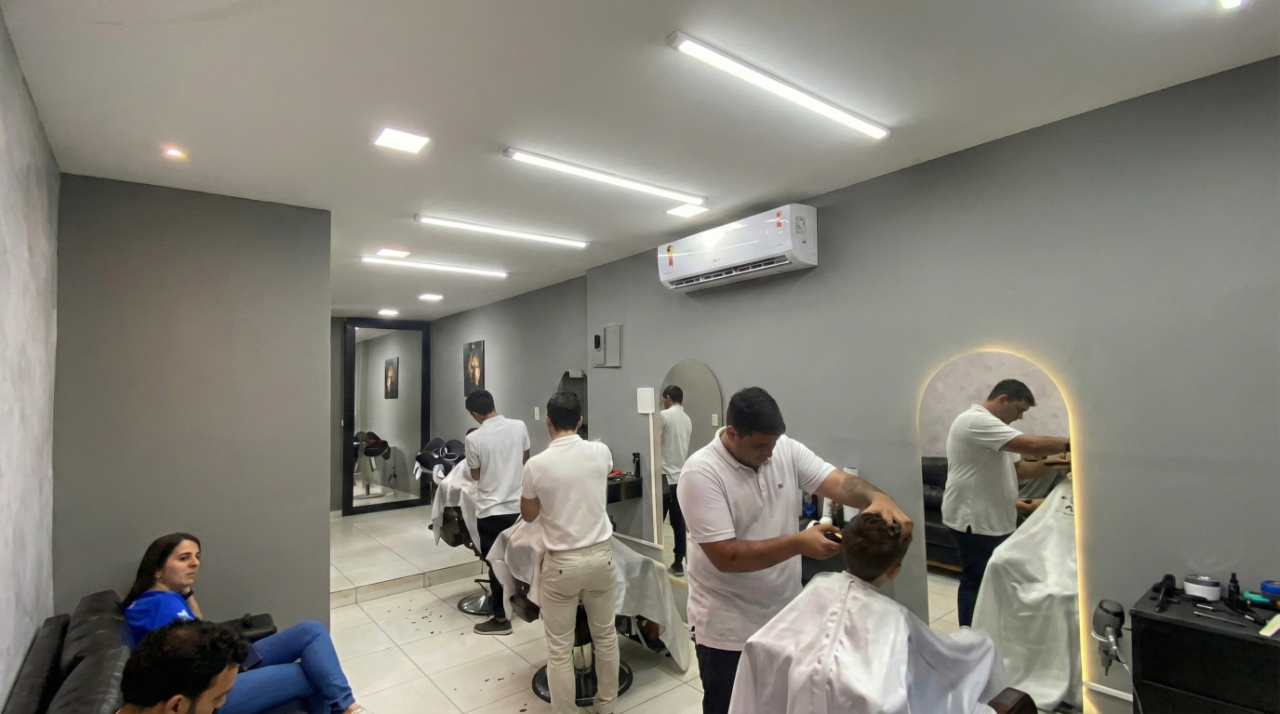
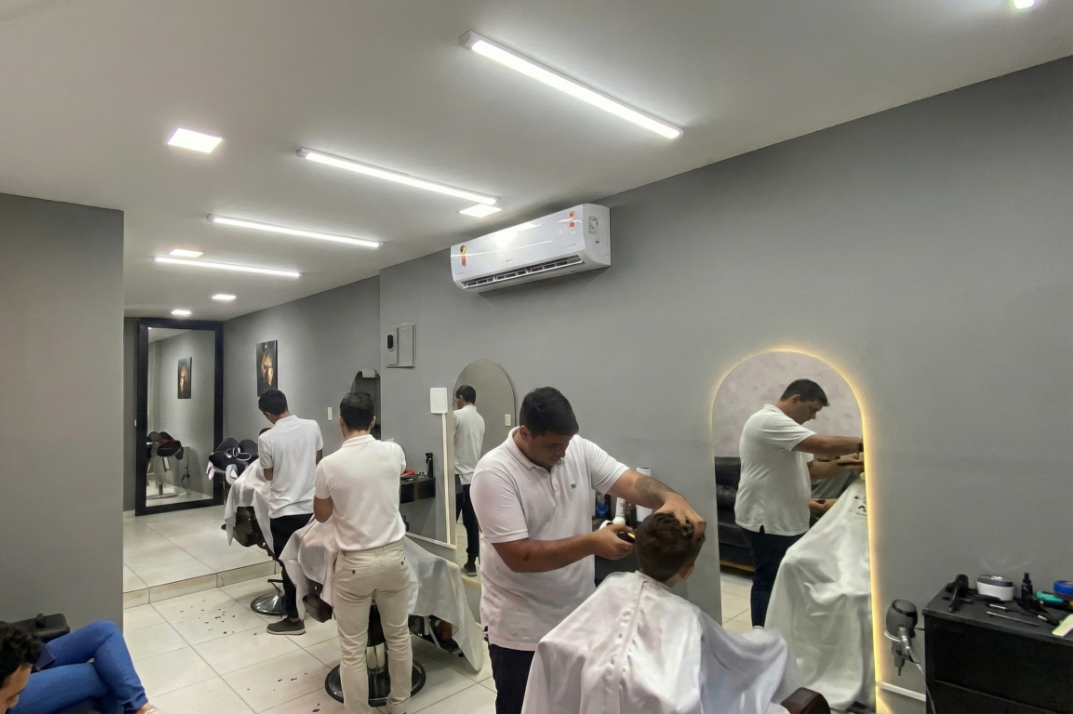
mod

diff --git a/src/components/HeroSection.tsx b/src/components/HeroSection.tsx
@@ -3,7 +3,7 @@ import { Button } from "@/components/ui/button";
 import { AuthModal } from "@/components/AuthModal";
 import { useAuth } from "@/hooks/useAuth";
 import { Scissors, ChevronDown } from "lucide-react";
-import heroImg from "@/assets/barbershop-2.png";
+import heroImg from "@/assets/barbershop-2-hero.png";
 import logoImg from "@/assets/logo-texto.png";
 
 export const HeroSection = () => {
